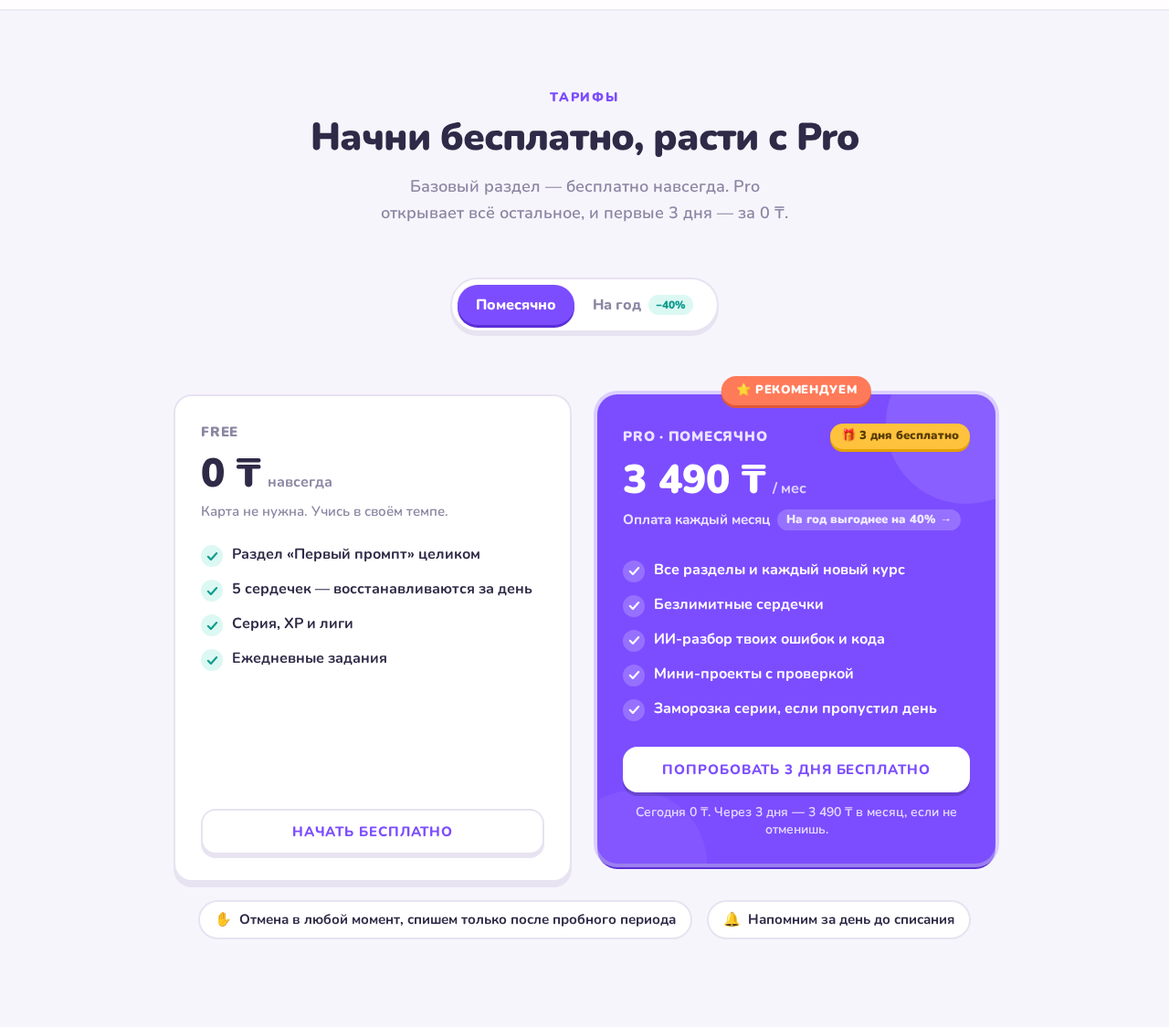
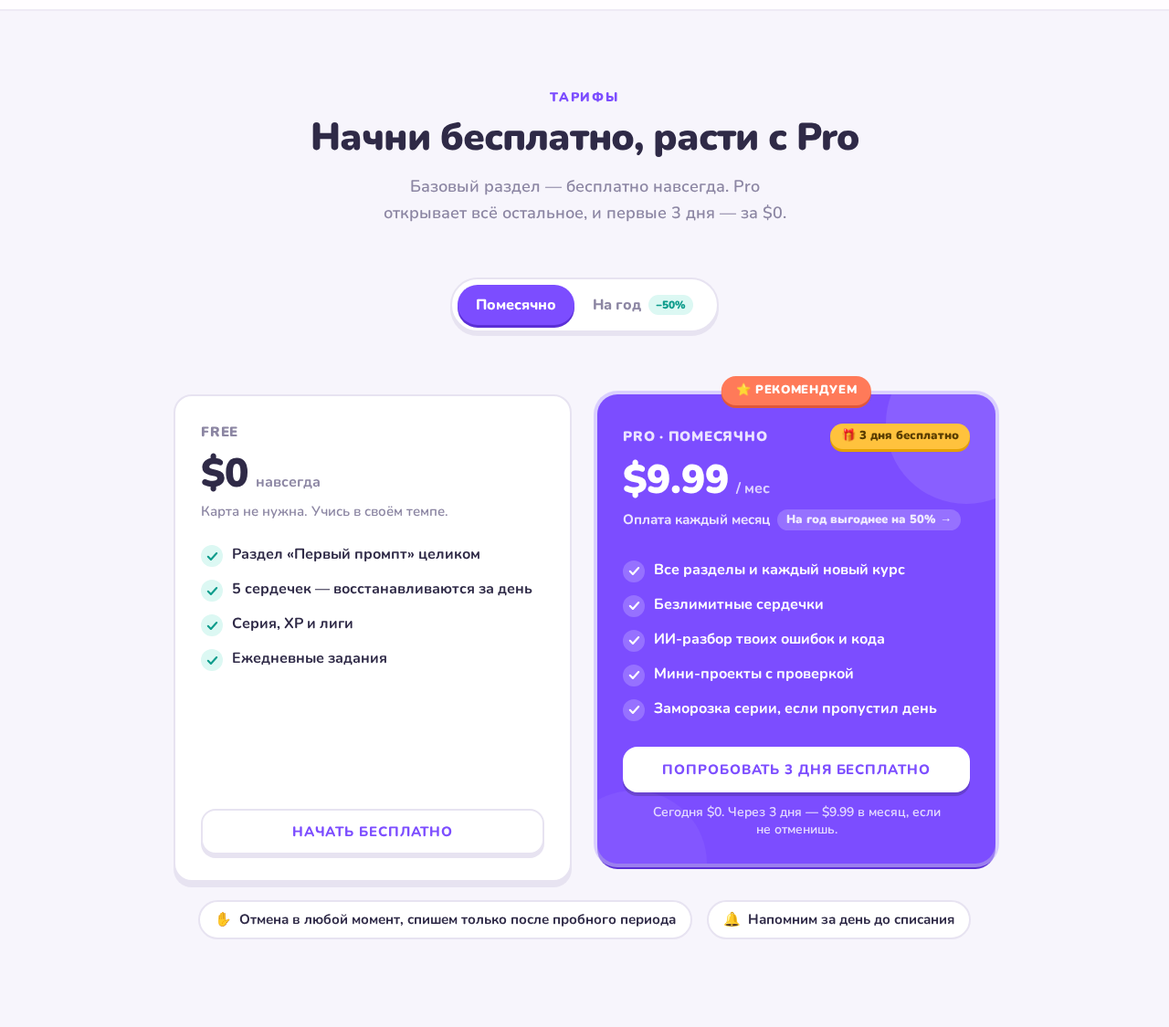
Switch pricing to USD for global market

diff --git a/src/screens/Landing.tsx b/src/screens/Landing.tsx
@@ -8,7 +8,7 @@ import { Reveal } from '../components/Reveal'
 import { BrowserArt, BugArt } from '../components/Illustrations'
 import { Bolt, Check, Cross, Fire, Heart, Shield } from '../components/Icons'
 import { UNITS, UNIT_COLORS, type ChoiceExercise } from '../data/course'
-import { FREE_FEATURES, PRICES, PRO_FEATURES, TRIAL_DAYS, annualPerMonth, annualSaveAmount, annualSavePct, tenge } from '../data/pricing'
+import { FREE_FEATURES, PRICES, PRO_FEATURES, TRIAL_DAYS, annualPerMonth, annualSaveAmount, annualSavePct, usd } from '../data/pricing'
 
 const scrollTo = (id: string) => document.getElementById(id)?.scrollIntoView({ behavior: 'smooth', block: 'start' })
 
@@ -459,7 +459,7 @@ function Features() {
     <section id="features" className="scroll-mt-20 py-16 md:py-24">
       <div className="mx-auto max-w-[1160px] px-5 md:px-8">
         <SectionHead eyebrow="Почему затягивает" title="Учёба, которая ощущается как игра" sub="Всё, за что любят игровые приложения для обучения, — но про создание софта с ИИ." color="text-teal-dark" />
-        <div className="grid gap-5 md:grid-cols-2 md:gap-6">
+        <div className="grid grid-cols-1 gap-5 md:grid-cols-2 md:gap-6">
           {items.map((f, i) => (
             <Reveal key={f.title} delay={(i % 2) * 120}>
               <div className="card flex h-full flex-col gap-5 p-5 md:p-6" style={{ boxShadow: '0 5px 0 #E7E3F1' }}>
@@ -540,7 +540,7 @@ function Pricing() {
         <SectionHead
           eyebrow="Тарифы"
           title="Начни бесплатно, расти с Pro"
-          sub={`Базовый раздел — бесплатно навсегда. Pro открывает всё остальное, и первые ${TRIAL_DAYS} дня — за 0 ₸.`}
+          sub={`Базовый раздел — бесплатно навсегда. Pro открывает всё остальное, и первые ${TRIAL_DAYS} дня — за $0.`}
         />
         <BillingToggle period={period} onChange={setPeriod} />
 
@@ -550,7 +550,7 @@ function Pricing() {
             <div className="card flex h-full flex-col p-6 md:mt-5 md:p-7" style={{ boxShadow: '0 6px 0 #E7E3F1' }}>
               <div className="text-[15px] font-black uppercase tracking-wider text-muted">Free</div>
               <div className="mt-3 flex items-baseline gap-2">
-                <span className="text-[40px] font-black leading-none md:text-[44px]">0&nbsp;₸</span>
+                <span className="text-[40px] font-black leading-none md:text-[44px]">$0</span>
                 <span className="text-[16px] font-bold text-muted">навсегда</span>
               </div>
               <p className="mt-2 text-[15px] font-semibold text-muted">Карта не нужна. Учись в своём темпе.</p>
@@ -582,14 +582,14 @@ function Pricing() {
 
                 <div className="relative mt-3 min-h-[92px]">
                   <div className="flex flex-wrap items-baseline gap-x-2 gap-y-1">
-                    <span className="text-[40px] font-black leading-none md:text-[44px]">{tenge(annual ? annualPerMonth : PRICES.monthly)}</span>
+                    <span className="text-[40px] font-black leading-none md:text-[44px]">{usd(annual ? annualPerMonth : PRICES.monthly)}</span>
                     <span className="text-[16px] font-bold text-white/75">/ мес</span>
-                    {annual && <s className="text-[17px] font-bold text-white/55">{tenge(PRICES.monthly)}</s>}
+                    {annual && <s className="text-[17px] font-bold text-white/55">{usd(PRICES.monthly)}</s>}
                   </div>
                   {annual ? (
                     <div className="mt-2.5 flex flex-wrap items-center gap-2 text-[15px] font-bold text-white/85">
-                      <span>{tenge(PRICES.annual)} раз в год</span>
-                      <span className="rounded-full bg-white/20 px-2.5 py-0.5 text-[13px] font-black">экономия {tenge(annualSaveAmount)}</span>
+                      <span>{usd(PRICES.annual)} раз в год</span>
+                      <span className="rounded-full bg-white/20 px-2.5 py-0.5 text-[13px] font-black">экономия {usd(annualSaveAmount)}</span>
                     </div>
                   ) : (
                     <div className="mt-2.5 flex flex-wrap items-center gap-2 text-[15px] font-bold text-white/85">
@@ -612,11 +612,11 @@ function Pricing() {
                   ))}
                 </ul>
 
-                <button className="btn btn-white btn-block btn-bouncy relative mt-auto" onClick={startTrial}>
+                <button className="btn btn-white btn-block btn-bouncy relative mt-auto whitespace-normal px-4 py-3 text-center leading-tight md:px-6" onClick={startTrial}>
                   Попробовать {TRIAL_DAYS} дня бесплатно
                 </button>
                 <p className="relative mt-3 text-center text-[14px] font-semibold leading-snug text-white/80">
-                  Сегодня 0&nbsp;₸. Через {TRIAL_DAYS} дня — {tenge(annual ? PRICES.annual : PRICES.monthly)} {annual ? 'за год' : 'в месяц'}, если не отменишь.
+                  Сегодня $0. Через {TRIAL_DAYS} дня — {usd(annual ? PRICES.annual : PRICES.monthly)} {annual ? 'за год' : 'в месяц'}, если не&nbsp;отменишь.
                 </p>
               </div>
             </div>
@@ -659,11 +659,11 @@ const FAQ = [
   },
   {
     q: 'Это бесплатно?',
-    a: `Да, раздел «Первый промпт», серия, XP и лиги бесплатны навсегда. Pro открывает все разделы, безлимитные сердечки и ИИ-разбор кода: ${tenge(PRICES.monthly)} в месяц или ${tenge(PRICES.annual)} в год (≈ ${tenge(annualPerMonth)} в месяц).`,
+    a: `Да, раздел «Первый промпт», серия, XP и лиги бесплатны навсегда. Pro открывает все разделы, безлимитные сердечки и ИИ-разбор кода: ${usd(PRICES.monthly)} в месяц или ${usd(PRICES.annual)} в год (≈ ${usd(annualPerMonth)} в месяц).`,
   },
   {
     q: 'Как работает пробный период?',
-    a: `Нажми «Попробовать ${TRIAL_DAYS} дня бесплатно» и выбери тариф — помесячный или годовой. Все возможности Pro сразу открываются, а сегодня с тебя 0 ₸. За день до конца пробного периода пришлём напоминание.`,
+    a: `Нажми «Попробовать ${TRIAL_DAYS} дня бесплатно» и выбери тариф — помесячный или годовой. Все возможности Pro сразу открываются, а сегодня с тебя $0. За день до конца пробного периода пришлём напоминание.`,
   },
   {
     q: 'Как отменить подписку?',
@@ -671,7 +671,7 @@ const FAQ = [
   },
   {
     q: 'Что будет после пробного периода?',
-    a: `Если не отменишь, на ${TRIAL_DAYS + 1}-й день спишем стоимость выбранного тарифа: ${tenge(PRICES.monthly)} за месяц или ${tenge(PRICES.annual)} за год. Дальше подписка продлевается автоматически, пока ты её не отменишь. А если решишь не продолжать, вернёшься на бесплатный тариф — прогресс и серия сохранятся.`,
+    a: `Если не отменишь, на ${TRIAL_DAYS + 1}-й день спишем стоимость выбранного тарифа: ${usd(PRICES.monthly)} за месяц или ${usd(PRICES.annual)} за год. Дальше подписка продлевается автоматически, пока ты её не отменишь. А если решишь не продолжать, вернёшься на бесплатный тариф — прогресс и серия сохранятся.`,
   },
   {
     q: 'Вайбик связан с Cursor, OpenAI или Anthropic?',

diff --git a/src/data/pricing.ts b/src/data/pricing.ts
@@ -1,21 +1,31 @@
 /**
- * Тарифы Вайбика. Цены выбраны по исследованию рынка (docs/pricing-research.md).
+ * Тарифы Вайбика. Цены в долларах США — ориентир на глобальный рынок
+ * (обоснование: docs/pricing-research.md, раздел «Решение: глобальный рынок, USD»).
  * Оплата пока не подключена — кнопки ведут на экран входа.
+ *
+ * Все суммы храним в центах, чтобы не ловить ошибки округления float.
  */
 export const TRIAL_DAYS = 3
 
 export const PRICES = {
-  monthly: 3490, // ₸ в месяц
-  annual: 24990, // ₸ в год
+  monthly: 999, // $9.99 в месяц
+  annual: 5999, // $59.99 в год
 }
 
-export const annualPerMonth = Math.round(PRICES.annual / 12) // 2 083 ₸
-export const annualFull = PRICES.monthly * 12 // 41 880 ₸
-export const annualSavePct = Math.round((1 - PRICES.annual / annualFull) * 100) // 40 %
-export const annualSaveAmount = annualFull - PRICES.annual // 16 890 ₸
+export const annualPerMonth = Math.round(PRICES.annual / 12) // 500 → $5
+export const annualFull = PRICES.monthly * 12 // 11 988 → $119.88
+export const annualSavePct = Math.round((1 - PRICES.annual / annualFull) * 100) // 50 %
+export const annualSaveAmount = annualFull - PRICES.annual // 5 989 → $59.89
 
-/** 24990 → «24 990 ₸» (неразрывный пробел между разрядами) */
-export const tenge = (n: number) => `${n.toLocaleString('ru-RU').replace(/\s/g, '\u00A0')}\u00A0₸`
+/** Центы → «$9.99»; целые суммы без копеек: 500 → «$5», 0 → «$0». */
+export const usd = (cents: number) => {
+  const whole = cents % 100 === 0
+  const value = (cents / 100).toLocaleString('en-US', {
+    minimumFractionDigits: whole ? 0 : 2,
+    maximumFractionDigits: 2,
+  })
+  return `$${value}`
+}
 
 export const FREE_FEATURES = [
   'Раздел «Первый промпт» целиком',

diff --git a/src/screens/Profile.tsx b/src/screens/Profile.tsx
@@ -4,7 +4,7 @@ import { useToast } from '../components/Toast'
 import { Bolt, Check, Fire, Shield } from '../components/Icons'
 import { MascotHead } from '../components/Mascot'
 import { ALL_LESSONS } from '../data/course'
-import { TRIAL_DAYS, annualPerMonth, tenge } from '../data/pricing'
+import { TRIAL_DAYS, annualPerMonth, usd } from '../data/pricing'
 import { navigate } from '../router'
 
 function Stat({ icon, value, label }: { icon: ReactNode; value: string | number; label: string }) {
@@ -81,7 +81,7 @@ export function Profile() {
               <span className="rounded-full bg-gold px-2.5 py-0.5 text-[12px] font-black text-[#5a3d00]">🎁 {TRIAL_DAYS} дня бесплатно</span>
             </div>
             <h3 className="mt-1.5 text-[20px] font-black leading-tight">Открой все разделы с Вайбик Pro</h3>
-            <p className="mt-1 text-[14px] font-semibold text-white/80">Безлимитные сердечки и ИИ-разбор кода. Потом от {tenge(annualPerMonth)}/мес при оплате за год.</p>
+            <p className="mt-1 text-[14px] font-semibold text-white/80">Безлимитные сердечки и ИИ-разбор кода. Потом от {usd(annualPerMonth)}/мес при оплате за год.</p>
           </div>
           <button className="btn btn-white btn-sm shrink-0" onClick={() => navigate('/pricing')}>
             Попробовать Pro

diff --git a/docs/pricing-research.md b/docs/pricing-research.md
@@ -1,8 +1,50 @@
 # Тарифы Вайбика: исследование рынка и рекомендация
 
+## Решение: глобальный рынок, USD
+
+*Решение от 8 октября 2026. Основной рынок — глобальный, поэтому все цены переведены из тенге (₸) в доллары США. Интерфейс остаётся на русском. Анализ рынка Казахстана в тенге сохранён ниже как история.*
+
+### Цены
+
+| Тариф | Цена | Как показано на лендинге | Пробный период | Бейджи |
+|---|---|---|---|---|
+| **Free** | $0 | «$0 навсегда» | — | — |
+| **Pro помесячно** | **$9.99 / мес** | «$9.99 / мес», «Оплата каждый месяц» | 3 дня | «На год выгоднее на 50 % →» |
+| **Pro на год** (по умолчанию, рекомендованный) | **$59.99 / год** | «$5 / мес» (59,99 / 12 = 5,00) с зачёркнутыми $9.99, «$59.99 раз в год» | 3 дня | «Популярный выбор», «−50 %», «экономия $59.89» |
+
+- Экономия на годовом: 12 × $9.99 = $119.88; $119.88 − $59.99 = **$59.89** (≈ 50 %). Суммы считаются в коде (`src/data/pricing.ts`, в центах), а не вписаны вручную.
+- Таймлайн пробного периода на кнопке: «Сегодня $0. Через 3 дня — $59.99 за год, если не отменишь.» / «Сегодня $0. Через 3 дня — $9.99 в месяц, если не отменишь.»
+- Формат: знак доллара перед суммой, точка как десятичный разделитель (`$9.99`); целые суммы без центов (`$5`, `$0`).
+
+### Почему так
+
+1. **Ниже прямых конкурентов-«дуолингоподобных».** Duolingo Super — $12.99/мес, ≈ $84–96/год; Sololearn PRO — $12.99/мес, $69.99/год; Mimo Pro — $14.99/мес, $119.88/год. Вайбик дешевле каждого из них и по месяцу, и по году — это важно для нового продукта без бренда и отзывов.
+2. **Сильно ниже «серьёзных» платформ.** Codecademy Plus/Pro — $29.99–39.99/мес, Brilliant — ≈ $30/мес, Scrimba Pro — $49/мес. На их фоне $9.99 воспринимается как доступная «подписка-привычка», а не как покупка курса.
+3. **$9.99 — классическая психологическая цена** и одновременно медиана Education по RevenueCat ($9.99/мес). Меньше 10 долларов — понятный порог для импульсного решения.
+4. **Глубокая скидка на год (−50 %) продвигает годовой план.** По RevenueCat (State of Subscription Apps 2026) в Education годовые планы выбирают 59–66 % подписчиков, и они дают основную выручку и примерно вдвое более высокую выручку на установку. $59.99/год ниже Sololearn ($69.99) и Duolingo (≈ $84–96), выше медианы Education ($44.99) — с учётом ИИ-функций, у которых есть себестоимость. Подача «$5/мес» с зачёркнутыми $9.99 — тот же приём якоря «всего $X в месяц», что в кейсе Mojo (+30 % стартов пробного периода).
+5. **Пробный период 3 дня на обоих платных планах** — без изменений (оговорки о длине пробного периода — в разделе истории ниже, п. 3.5).
+
+### Позже: региональные цены
+
+Единая долларовая цена для Казахстана, СНГ, Индии и других регионов с низкой покупательной способностью будет высокой (для сравнения: Duolingo Super в KZ App Store — 2 990 ₸ ≈ $6.7 против $12.99 в США). Когда появится оплата, стоит включить региональные цены:
+
+- **App Store / Google Play** — ценовые уровни (price tiers) по странам, можно задать ниже для KZ/СНГ/Индии;
+- **веб-оплата** — локализованные цены через Stripe (Adaptive Pricing / цены в местной валюте) или Polar, либо скидки по паритету покупательной способности (PPP), как у Scrimba;
+- ориентир для KZ — прежняя рекомендация ниже (3 490 ₸/мес, 24 990 ₸/год).
+
+Сейчас это не реализовано: на лендинге одна цена в USD для всех.
+
+**Оплата.** С переходом на USD естественный путь — Stripe/Polar (веб) или App Store / Google Play (мобильные приложения) с автосписанием после пробного периода; проблема Kaspi Pay из истории ниже актуальна только для локальной оплаты в KZ.
+
+---
+
+## История: исходный анализ для рынка Казахстана (тенге)
+
+*Ниже — первоначальный анализ и рекомендация в тенге (8 октября 2026). Он заменён решением выше, но сохранён как история и как ориентир для будущих региональных цен в KZ.*
+
 *Собрано 8 октября 2026. Если у цифры другая дата, она указана рядом. Курсы для пересчёта: 1 $ = 447,14 ₸ (НБК, 08.10.2026, [kurs24.kz](https://kurs24.kz/currency/usd)); 1 ₽ ≈ 5,24 ₸ (сводка поиска со ссылкой на ifin.kz, напрямую не проверено). Платёжная интеграция не подключена; в этом документе только цены.*
 
-## Итог (коротко)
+### Итог (коротко)
 
 | Тариф | Цена | Пробный период | Бейдж |
 |---|---|---|---|
@@ -12,9 +54,9 @@
 
 Цены показываем в **тенге (₸)**. Lifetime и командный тариф пока не вводим.
 
-## 1. Конкуренты: цены и структура
+### 1. Конкуренты: цены и структура
 
-### 1.1 Сводная таблица (официальные/базовые цены в США)
+#### 1.1 Сводная таблица (официальные/базовые цены в США)
 
 | Продукт | Месяц | Год | Пробный период | Что закрыто в бесплатной версии | Источник |
 |---|---|---|---|---|---|
@@ -34,7 +76,7 @@
 - Cursor Pro — $20/мес ≈ 8 940 ₸ ([cursor.com/pricing](https://cursor.com/pricing)).
 - Яндекс Плюс в Казахстане — 2 499 ₸/мес, с Амедиатекой 3 500 ₸ ([справка yandex.kz](https://yandex.kz/support/plus/ru/subscribe-and-payment)).
 
-### 1.2 Региональные цены: App Store Казахстан и Россия (8.10.2026)
+#### 1.2 Региональные цены: App Store Казахстан и Россия (8.10.2026)
 
 В App Store видны только суммы встроенных покупок, без указания срока. Месяц это или год, мы определили по названиям покупок и порядку сумм.
 
@@ -47,7 +89,7 @@
 
 **Вывод:** месячная подписка в Казахстане стоит 2 690–4 990 ₸, годовая — 17 000–35 000 ₸. Мировые приложения в KZ продают дешевле, чем в США: Duolingo Super стоит 2 990 ₸ ≈ $6,7 против $12,99.
 
-## 2. Что лучше конвертирует: данные
+### 2. Что лучше конвертирует: данные
 
 **RevenueCat, State of Subscription Apps 2026** (115 тыс. приложений, данные за 2025) — [общий отчёт](https://www.revenuecat.com/state-of-subscription-apps/), [раздел Education](https://www.revenuecat.com/state-of-subscription-apps-2026-education/):
 
@@ -76,7 +118,7 @@
 
 **Decoy (приманка):** в эксперименте Ариели с подпиской The Economist с «приманкой» пакет print+web выбрали 84 %, без неё — 32 % ([The Decision Lab](https://thedecisionlab.com/biases/decoy-effect)).
 
-## 3. Рекомендация и почему
+### 3. Рекомендация и почему
 
 1. **Валюта — тенге (₸).**
    - Основатель и юрлицо в Казахстане, поэтому выручка и налоги будут в тенге.
@@ -108,7 +150,7 @@
    - Lifetime плохо сочетается с переменными расходами на ИИ, а по RevenueCat у приложений с преобладанием lifetime самая низкая выручка на установку (D60 ≈ $0,24).
    - Командный тариф нужен, когда появятся запросы от школ или компаний.
 
-## 4. Риски и что не удалось проверить
+### 4. Риски и что не удалось проверить
 
 - **Списание после пробного периода в KZ.** В Kaspi Pay нет автосписания с карты: регулярный платёж — это счёт, который клиент сам подтверждает в Kaspi ([apipay.kz](https://apipay.kz/recurring-payments-kaspi), сторонний сервис, не Kaspi). Чтобы обещание «спишем только после пробного периода» работало, нужен эквайринг с сохранением карты (рекуррентными платежами) или оплата через App Store / Google Play. Иначе формулировку на лендинге нужно поменять. Это решается вместе с выбором платёжного провайдера.
 - **Mimo и Brilliant.** Официальные цены не видны: Mimo загружает их скриптом, Brilliant не публикует. Цифры в таблице — из сторонних источников (у Mimo это конкурент Sololearn).

diff --git a/README.md b/README.md
@@ -21,7 +21,7 @@ npm run preview   # раздача собранной версии на http://l
 (`vaibik.session`, `vaibik.progress`). Кнопка «Выйти» есть в боковом меню,
 в «Профиле» и в «Ещё». В профиле можно сбросить демо-прогресс.
 
-Тарифы на лендинге — выбранные цены (Free 0 ₸, Pro 3 490 ₸/мес или 24 990 ₸/год, 3 дня бесплатно),
+Тарифы на лендинге — выбранные цены (Free $0, Pro $9.99/мес или $59.99/год ≈ $5/мес, 3 дня бесплатно; цены в USD для глобального рынка),
 обоснование — в `docs/pricing-research.md`. **Оплата не подключена**: кнопки пробного периода ведут
 на экран входа. Отзывов и «счётчиков пользователей» нет.
 Все пользователи рейтинга, лиги, серия и стартовый прогресс — **демо-данные**.
